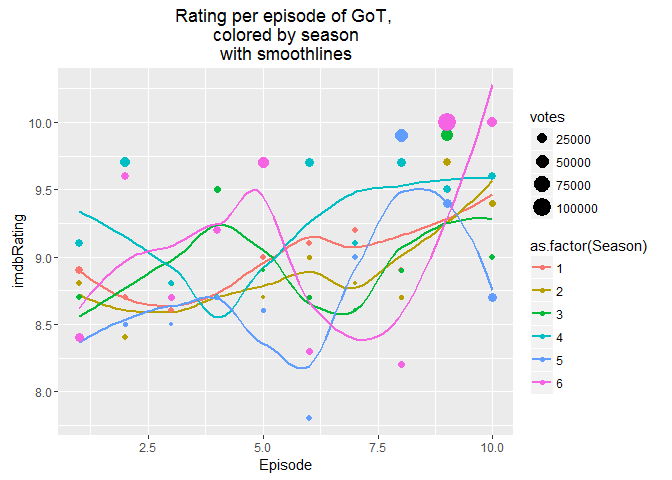
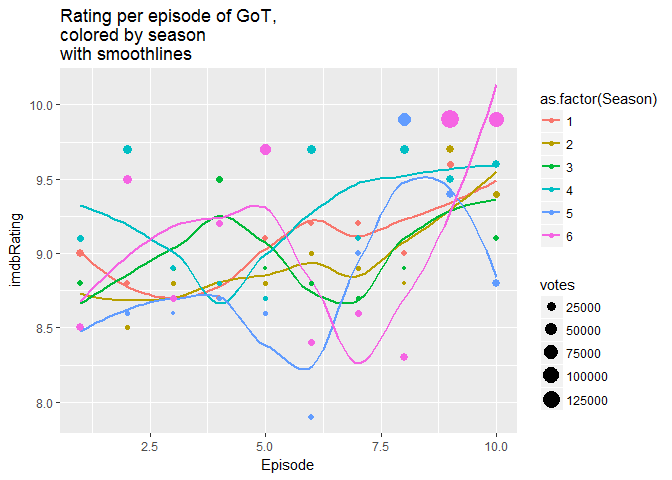
updated version including movie downloader

diff --git a/README.md b/README.md
@@ -3,22 +3,26 @@
 Short description of the package
 ================================
 
-imdb helps you in downloading series information from imdb. It has two functions one for basic information and a second one that also downloads synopsis, actors etc.
+The package imdb helps you in downloading series and movie information from imdb. It has three functions one for basic information about series and a second one that also downloads synopsis, actors etc. A third function downloads information about movies.
+
+version information
+-------------------
+
+[![codecov](https://codecov.io/gh/RMHogervorst/imdb/branch/master/graph/badge.svg)](https://codecov.io/gh/RMHogervorst/imdb)[![CRAN\_Status\_Badge](http://www.r-pkg.org/badges/version/imdb)](https://cran.r-project.org/package=imdb)[![Last-changedate](https://img.shields.io/badge/last%20change-2017--03--03-yellowgreen.svg)](/commits/master)[![Licence](https://img.shields.io/badge/licence-MIT-lightgrey.svg)](http://choosealicense.com/)[![minimal R version](https://img.shields.io/badge/R-3.2.2-6666ff.svg)](https://cran.r-project.org/)[![Project Status: Inactive – The project has reached a stable, usable state but is no longer being actively developed; support/maintenance will be provided as time allows.](http://www.repostatus.org/badges/latest/inactive.svg)](http://www.repostatus.org/#inactive)[![Build Status](https://travis-ci.org/RMHogervorst/imdb.svg?branch=master)](https://travis-ci.org/RMHogervorst/imdb)
 
 Installation instructions
 =========================
 
 For now you will have to install using `devtools::install_github("rmhogervorst/imdb")`
 
-in the near future: ***Installation via cran with : install\_packages(NAMEOFPACKAGE)***
-
 Example usage
 =============
 
 imdb has 2 functions:
 
--   imdbSeries() and
--   enrichIMDB()
+-   imdbSeries()
+-   enrichIMDB() and
+-   imdbMovies()
 
 With the function 'imdbSeries(seriesname = "name of series", seasons = number(s))' you can call up general information about series. Note that the api is does not really care about case. "Game of Thrones" or "game of thrones" or "gAmE oF tHrONes " is all fine.
 
@@ -26,15 +30,15 @@ With the function 'imdbSeries(seriesname = "name of series", seasons = number(s)
 library(imdb)
 imdbSeries("game of thrones ")
 #>                                    Title   Released Episode imdbRating
-#> 1                       Winter Is Coming 2011-04-17       1        8.9
-#> 2                          The Kingsroad 2011-04-24       2        8.7
-#> 3                              Lord Snow 2011-05-01       3        8.6
+#> 1                       Winter Is Coming 2011-04-17       1        9.0
+#> 2                          The Kingsroad 2011-04-24       2        8.8
+#> 3                              Lord Snow 2011-05-01       3        8.7
 #> 4  Cripples, Bastards, and Broken Things 2011-05-08       4        8.7
-#> 5                  The Wolf and the Lion 2011-05-15       5        9.0
-#> 6                         A Golden Crown 2011-05-22       6        9.1
+#> 5                  The Wolf and the Lion 2011-05-15       5        9.1
+#> 6                         A Golden Crown 2011-05-22       6        9.2
 #> 7                     You Win or You Die 2011-05-29       7        9.2
-#> 8                         The Pointy End 2011-06-05       8        8.9
-#> 9                                 Baelor 2011-06-12       9        9.5
+#> 8                         The Pointy End 2011-06-05       8        9.0
+#> 9                                 Baelor 2011-06-12       9        9.6
 #> 10                        Fire and Blood 2011-06-19      10        9.4
 #>       imdbID Season
 #> 1  tt1480055      1
@@ -62,7 +66,7 @@ The enrichIMDB command returns a seperate dataframe with imdbID, runtime, direct
 
 ``` r
 grep("Jon",  season2GOT_enriched$plot)
-#> [1]  3  6  7  8 10
+#> [1]  2  3  6  7  8 10
 grep("Peter Dinklage", season2GOT_enriched$actors)
 #>  [1]  1  2  3  4  5  6  7  8  9 10
 ```
@@ -73,15 +77,12 @@ Combining the information from the two dataframes can also be very useful.
 library(ggplot2)
 suppressPackageStartupMessages(library(dplyr))
 GOTall<-imdbSeries("game of Thrones", 1:6)
-#> Warning in imdbSeries("game of Thrones", 1:6): NAs introduced by coercion
 GOT <-left_join(GOTall, enrichIMDB(GOTall), by = "imdbID")
-#> Warning in enrichIMDB(GOTall): NAs introduced by coercion
 ggplot(GOT, aes(Episode, imdbRating)) + 
         geom_smooth(aes(color = as.factor(Season)),se = FALSE , alpha = 1/10)+
         geom_point(aes(color = as.factor(Season), size = votes))+
         ggtitle("Rating per episode of GoT, \ncolored by season\nwith smoothlines")
-#> Warning: Removed 1 rows containing non-finite values (stat_smooth).
-#> Warning: Removed 1 rows containing missing values (geom_point).
+#> `geom_smooth()` using method = 'loess'
 ```
 
 ![](README-combining%20everything-1.png)
